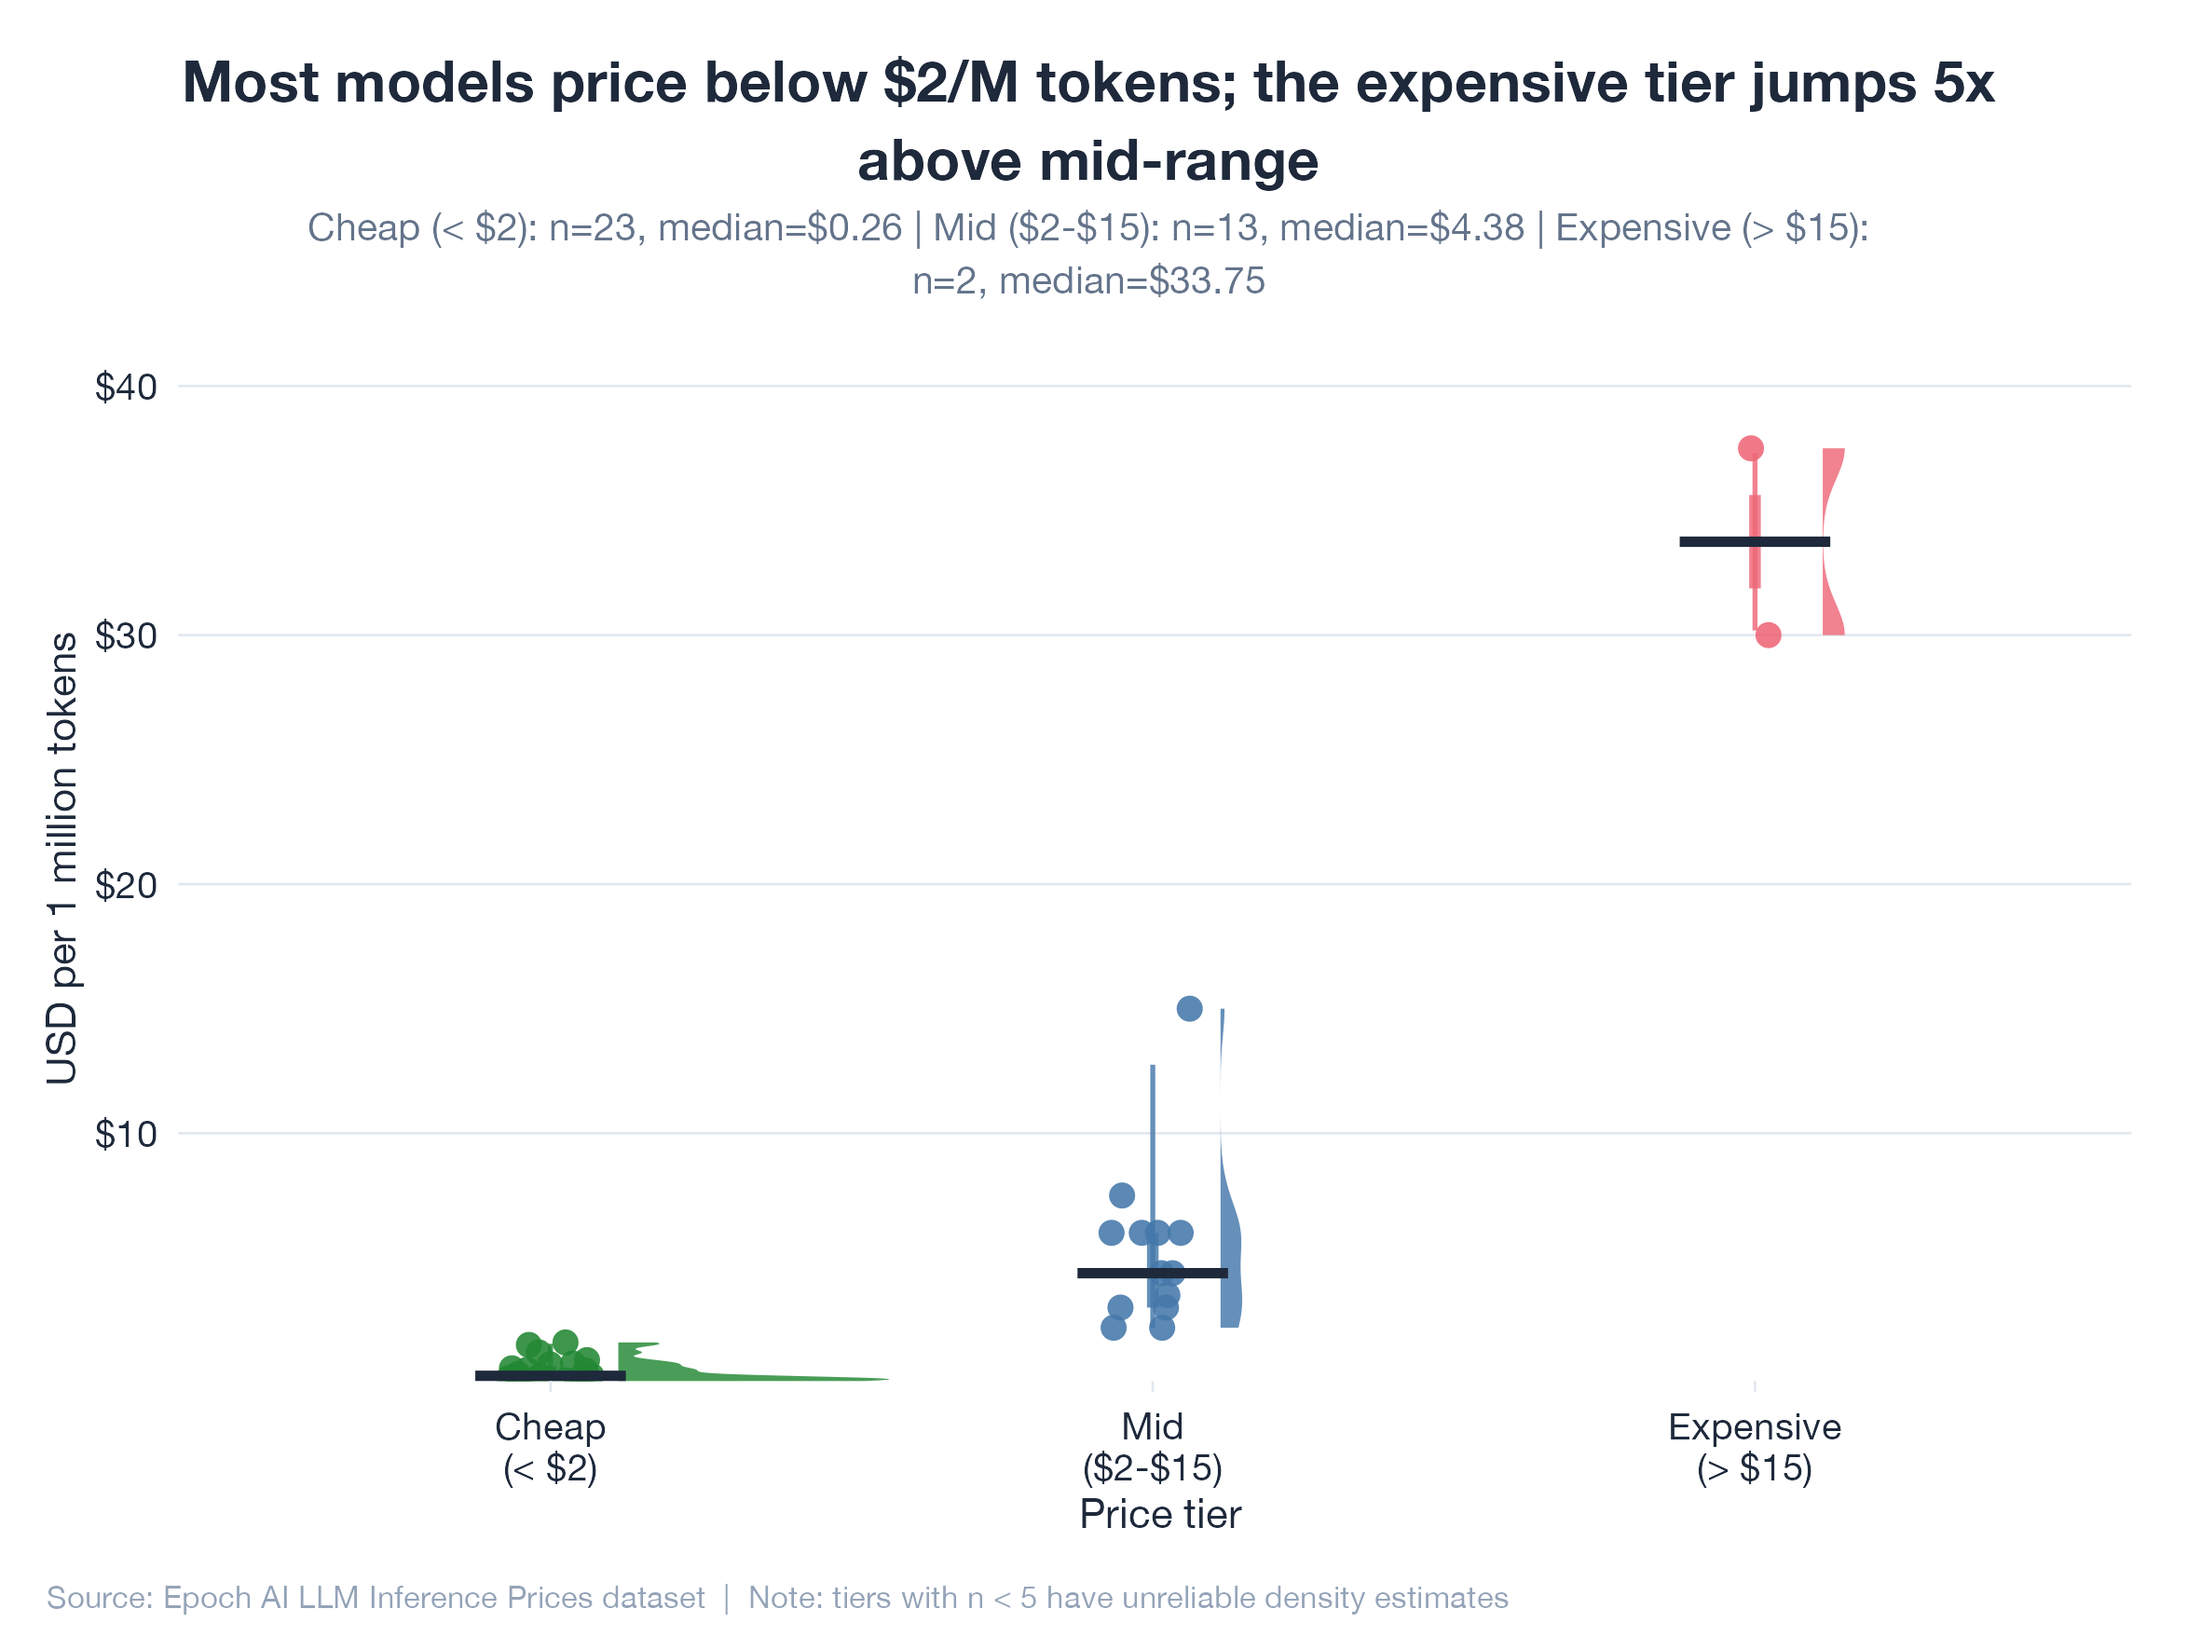
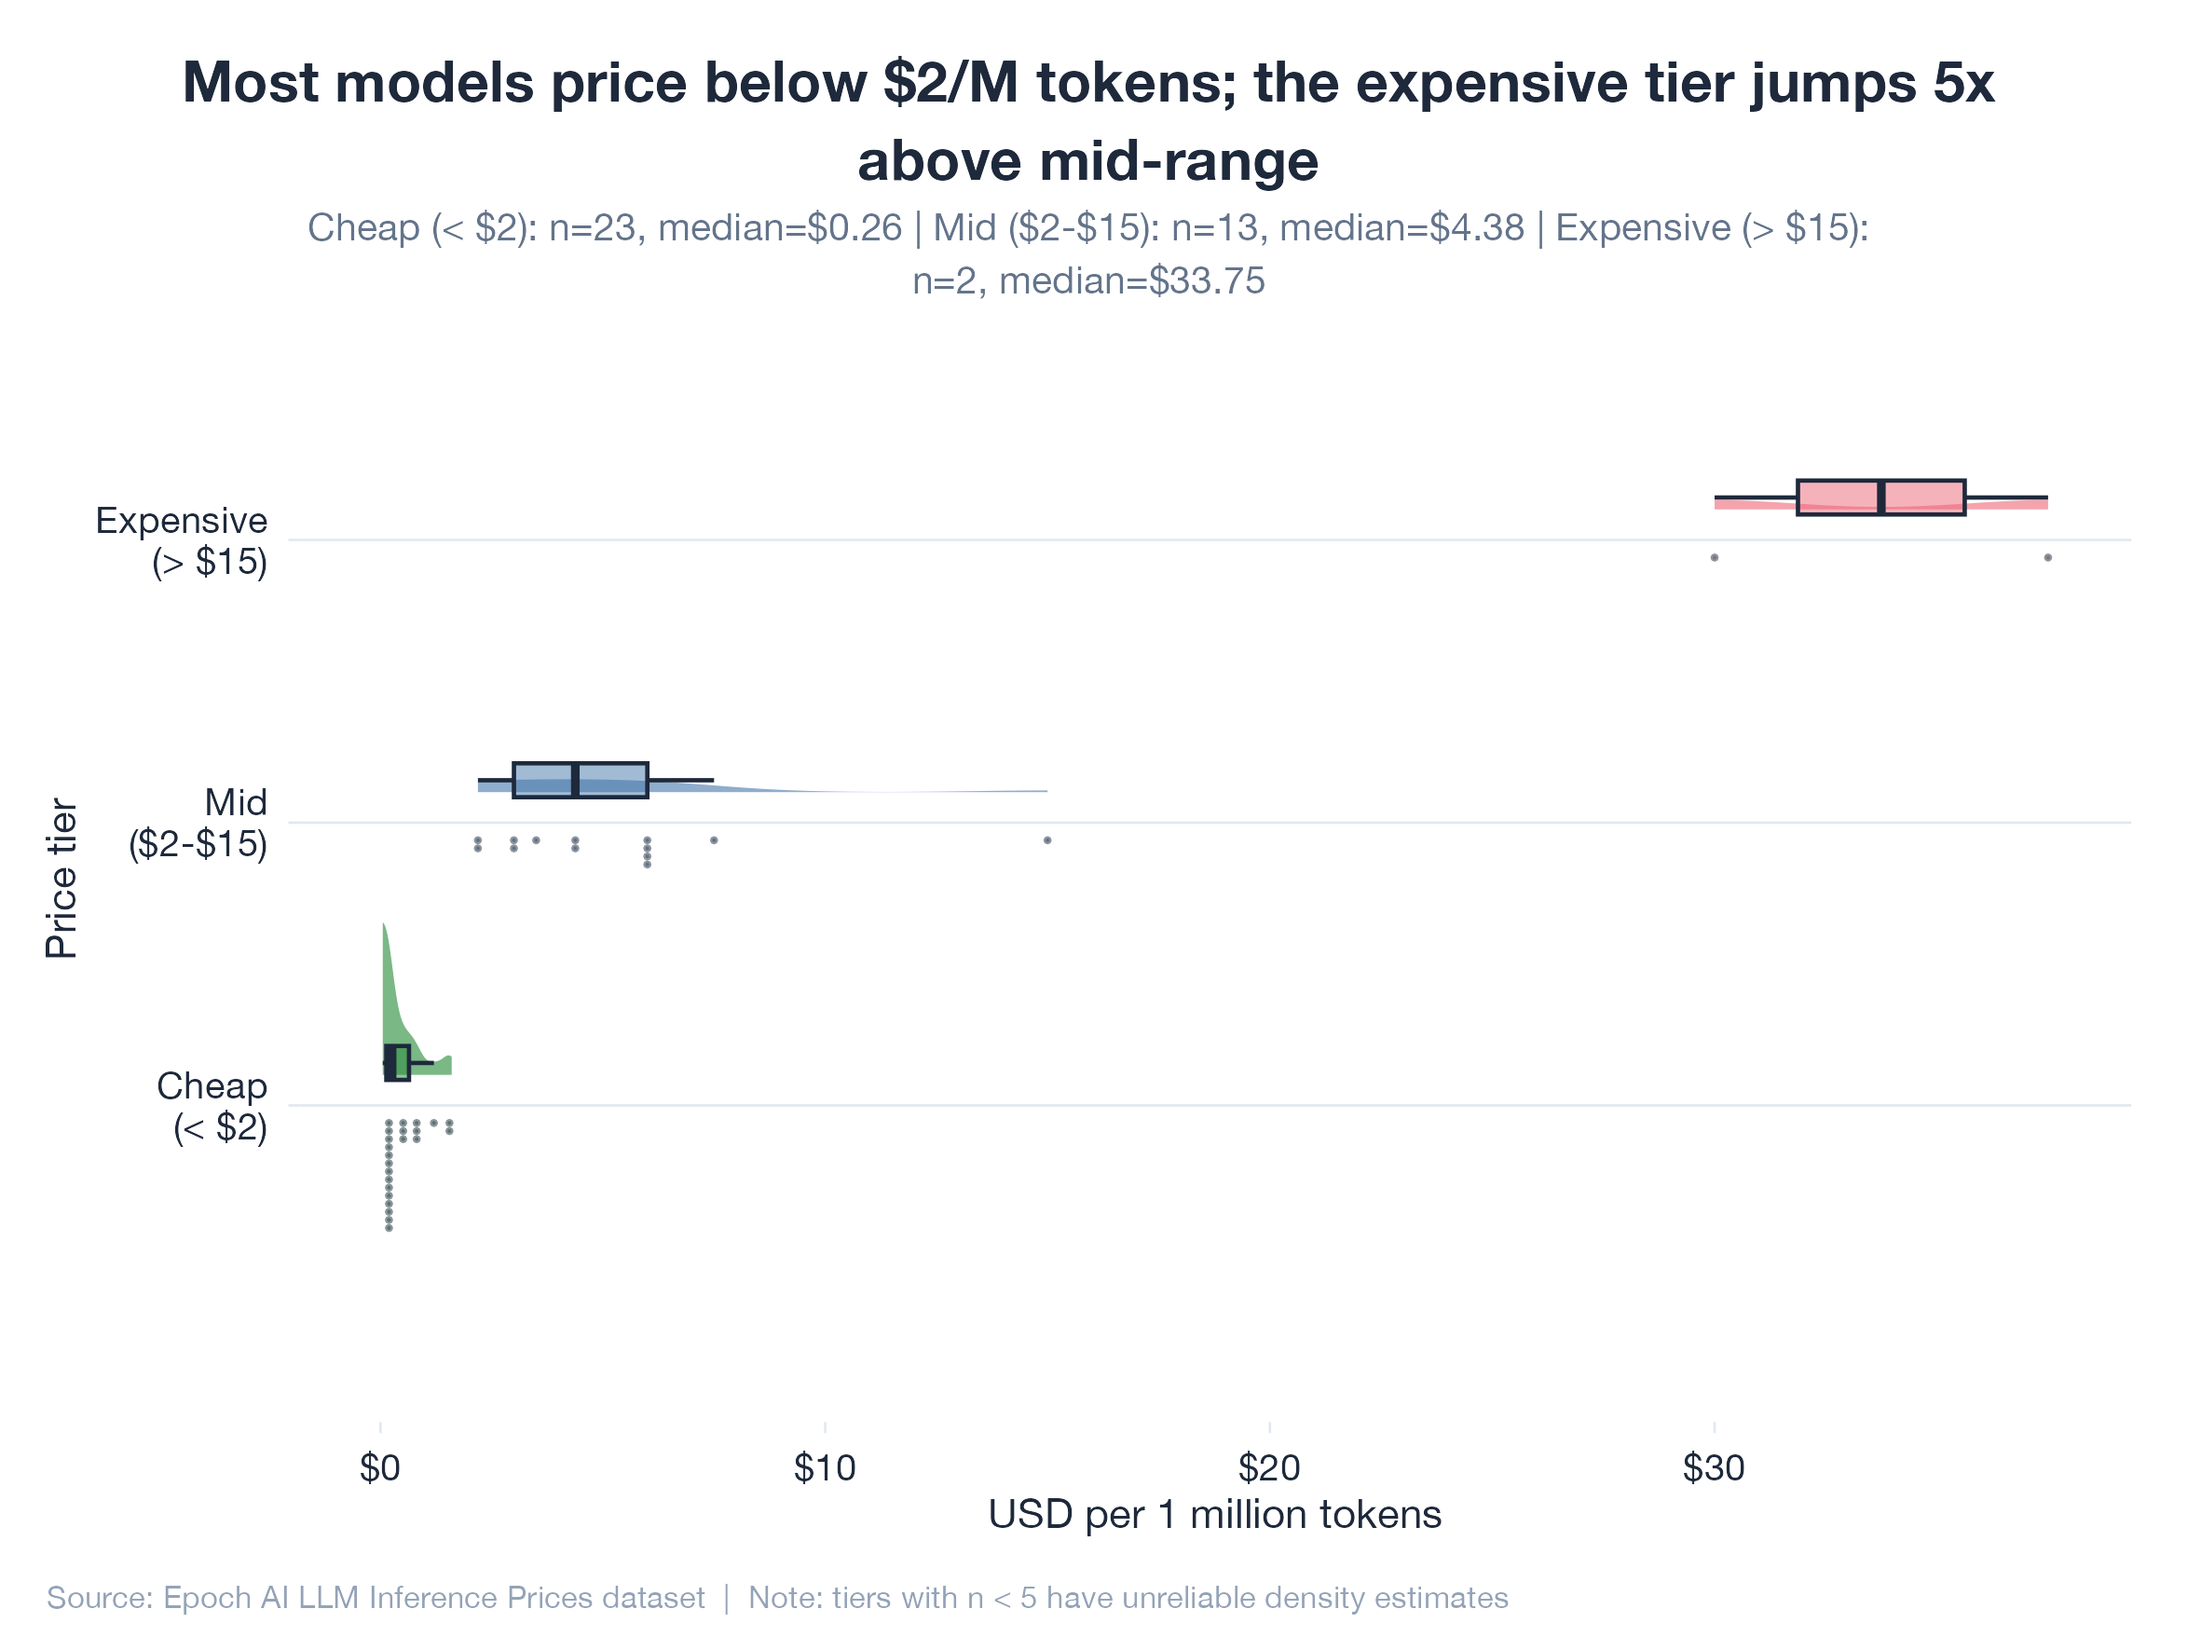
feat: overhaul raincloud plot instructions and regenerate DST-03 image
Raincloud best practices updated based on Allen et al. 2019 and
Correll 2023 research:

- plan.md Section 10.2: rewritten with two approaches (ggdist manual
  layering for max control, ggrain one-liner for quick use), detailed
  parameter recommendations, and defensive design guidelines
- plan.md Section 3.1: updated distribution+raw data entry with
  stat_dots preference over geom_jitter
- prompts/distribution.md: rewritten with 9 implementation rules
  covering bandwidth, boxplot sizing, layer spacing, orientation,
  n-adaptive behavior, and alpha conventions
- DST-03 image regenerated: horizontal orientation, deterministic
  stat_dots instead of jitter, proper geom_boxplot, trimmed density,
  adaptive bandwidth based on per-group sample size

diff --git a/plan.md b/plan.md
@@ -123,7 +123,7 @@ Match the user's analytical goal to the best geometry. Always think:
 |---|---|---|
 | Shape of distribution | `geom_histogram`, `geom_density` | Set meaningful `binwidth`; overlay `geom_rug` for small n |
 | Compare distributions | `geom_density` + `fill` + `alpha`, `ggridges::geom_density_ridges` | Ridgelines excel for >3 groups |
-| Distribution + raw data | `ggdist::stat_halfeye`, `ggrain::geom_rain` | Raincloud = box + violin + jitter |
+| Distribution + raw data | `ggdist::stat_halfeye` + `geom_boxplot` + `ggdist::stat_dots`, or `ggrain::geom_rain` | Raincloud = half-density + boxplot + dots; prefer `stat_dots` over `geom_jitter` for deterministic layout; use `coord_flip()` for horizontal orientation |
 | Counts of categories | `geom_bar(stat="count")` | Reorder with `forcats::fct_infreq` |
 
 ### 3.2 Relationship (two variables)
@@ -955,6 +955,72 @@ ggsave("scatter_regression.png", p, width = 180, height = 130, units = "mm", dpi
 
 ### 10.2 Raincloud Plot with Statistical Comparisons
 
+**Raincloud best practices** (Allen et al. 2019, Correll 2023):
+
+- **Three layers**: half-density slab (cloud), boxplot (lightning), raw dots (rain)
+- **Prefer `ggdist::stat_dots()` over `geom_jitter()`** — deterministic dot layout avoids
+  jitter-induced visual artefacts where identical data looks different across renders
+- **Bandwidth**: set `adjust = 0.5` to `0.75` to reveal multimodality; increase to `1.0-1.5`
+  for small n (< 20) to avoid spurious spikes
+- **Boxplot**: width ~1/4 to 1/6 of violin width; always `outlier.shape = NA` (raw data
+  already shows outliers); nudge away from density slab
+- **Orientation**: horizontal (`coord_flip()`) preferred — category labels read naturally,
+  density extends rightward, better for many groups
+- **Large n (> 200-300)**: drop raw points or use quantile dotplots
+  (`stat_dots(quantiles = 100)`) to avoid overplotting
+- **Trim density**: use `trim = TRUE` to prevent density mass beyond data bounds
+- **Always set `seed`** if using jitter for reproducibility
+
+**Approach A: ggdist manual layering (maximum control)**
+
+```r
+library(tidyverse)
+library(ggdist)
+library(palmerpenguins)
+
+p <- penguins %>%
+  filter(!is.na(body_mass_g), !is.na(species)) %>%
+  ggplot(aes(x = species, y = body_mass_g, fill = species)) +
+  # Cloud — half-density slab
+  stat_halfeye(
+    adjust = 0.5,
+    width = 0.6,
+    justification = -0.2,
+    .width = 0,
+    point_colour = NA,
+    trim = TRUE
+  ) +
+  # Lightning — boxplot
+  geom_boxplot(
+    width = 0.12,
+    outlier.shape = NA,
+    alpha = 0.5,
+    position = position_nudge(x = 0.15)
+  ) +
+  # Rain — deterministic dots
+  stat_dots(
+    side = "left",
+    justification = 1.12,
+    binwidth = 50,
+    dotsize = 0.8,
+    alpha = 0.5
+  ) +
+  scale_fill_manual(values = c("#E69F00", "#56B4E9", "#009E73")) +
+  labs(
+    title    = "Gentoo penguins are significantly heavier than other species",
+    subtitle = "Body mass distributions | n = 333 complete observations",
+    x = NULL, y = "Body mass (g)",
+    caption  = "Data: palmerpenguins | Colorblind-safe Okabe-Ito palette"
+  ) +
+  theme_minimal(base_size = 12) +
+  theme(legend.position = "none") +
+  coord_flip()
+
+ggsave("raincloud_penguins.png", p, width = 180, height = 130, units = "mm", dpi = 300)
+```
+
+**Approach B: ggrain one-liner (quick)**
+
 ```r
 library(tidyverse)
 library(ggrain)
@@ -964,16 +1030,24 @@ library(palmerpenguins)
 p <- penguins %>%
   filter(!is.na(body_mass_g), !is.na(species)) %>%
   ggplot(aes(x = species, y = body_mass_g, fill = species, color = species)) +
-  geom_rain(alpha = 0.4, rain.side = "l",
-            boxplot.args = list(color = "grey30", outlier.shape = NA),
-            violin.args  = list(color = NA, alpha = 0.3)) +
-  stat_compare_means(comparisons = list(c("Adelie","Chinstrap"),
-                                         c("Chinstrap","Gentoo"),
-                                         c("Adelie","Gentoo")),
-                     method = "wilcox.test", label = "p.signif",
-                     step.increase = 0.08) +
-  scale_fill_manual(values = c("#FF6B35", "#004E89", "#2A9D8F")) +
-  scale_color_manual(values = c("#FF6B35", "#004E89", "#2A9D8F")) +
+  geom_rain(
+    seed = 42,
+    rain.side = "l",
+    point.args = list(alpha = 0.4, size = 1.5),
+    boxplot.args = list(color = "grey30", outlier.shape = NA, width = 0.08),
+    boxplot.args.pos = list(width = 0.08, position = position_nudge(x = 0.12)),
+    violin.args = list(color = NA, alpha = 0.5, adjust = 0.5, trim = TRUE),
+    violin.args.pos = list(side = "r", width = 0.6, position = position_nudge(x = 0.17))
+  ) +
+  stat_compare_means(
+    comparisons = list(c("Adelie","Chinstrap"),
+                       c("Chinstrap","Gentoo"),
+                       c("Adelie","Gentoo")),
+    method = "wilcox.test", label = "p.signif",
+    step.increase = 0.08
+  ) +
+  scale_fill_manual(values = c("#E69F00", "#56B4E9", "#009E73")) +
+  scale_color_manual(values = c("#E69F00", "#56B4E9", "#009E73")) +
   labs(
     title    = "Gentoo penguins are significantly heavier than other species",
     subtitle = "Body mass distributions with pairwise Wilcoxon tests",

diff --git a/prompts/distribution.md b/prompts/distribution.md
@@ -1,26 +1,52 @@
 ---
 chart_family: distribution
 difficulty: intermediate
-packages: [ggrain, ggpubr, palmerpenguins]
+packages: [ggdist, ggplot2, palmerpenguins]
 dataset: palmerpenguins::penguins
 sections: [3, 4, 10]
 ---
 
 # Prompt
 
-Raincloud plot of penguin body mass (g) by species with pairwise Wilcoxon significance
-tests. Show raw data points, violin density, and boxplot in one layer. Use the
-Okabe-Ito colorblind-safe palette. Remove the legend (species shown on x-axis).
+Raincloud plot of penguin body mass (g) by species. Show a half-density slab (cloud),
+boxplot (lightning), and deterministic dot strip (rain) using ggdist. Use horizontal
+orientation with `coord_flip()`. Apply the Okabe-Ito colorblind-safe palette. Remove the
+legend (species shown on axis).
+
+# Raincloud implementation rules
+
+1. **Three distinct layers** — half-density slab, boxplot, raw dots. Never combine into
+   fewer layers (a violin alone or boxplot alone is not a raincloud).
+2. **Prefer `ggdist::stat_dots()` over `geom_jitter()`** — deterministic dot stacking
+   avoids jitter artefacts where identical data looks different across renders. If jitter
+   is required, always set `seed` for reproducibility.
+3. **Density bandwidth** — set `adjust = 0.5` for medium n (20-200) to reveal bimodality.
+   Increase to `1.0-1.5` for small n (< 20). Always use `trim = TRUE` to prevent density
+   mass beyond data bounds.
+4. **Boxplot sizing** — width = 0.10 to 0.15 (roughly 1/4 to 1/6 of violin width).
+   Always set `outlier.shape = NA` since raw data already shows outliers.
+5. **Layer spacing** — nudge the boxplot ~0.15 from center; position density slab with
+   `justification = -0.2`; position dots with `justification = 1.1` on the opposite side.
+6. **Orientation** — horizontal (`coord_flip()` or swapped aesthetics) is preferred:
+   category labels read naturally, density extends rightward, better for many groups.
+7. **Large n handling** — when n > 200-300 per group, replace raw dots with
+   `stat_dots(quantiles = 100)` (quantile dotplot) or drop the rain layer entirely.
+8. **Small n handling** — when n < 15, increase density bandwidth (`adjust = 1.0-1.5`)
+   and consider whether density estimation is warranted at all; a dot strip alone may
+   be more honest.
+9. **Alpha by component** — density: 0.5-0.7, boxplot: 0.5, dots: 0.4-0.6 (scale
+   inversely with n).
 
 # Expected outputs
 
 - Fully self-contained R script
-- `geom_rain()` with `rain.side = "l"`, violin, boxplot, and point layers
-- `stat_compare_means()` with `method = "wilcox.test"` and `label = "p.signif"`
-- Okabe-Ito or equivalent colorblind-safe fill/color palette
-- `scale_fill_manual()` + `scale_color_manual()` with matched values
-- Title: e.g. "Gentoo penguins are significantly heavier than other species"
-- Axis labels: `y = "Body mass (g)"`, `x = NULL` (species on x-axis is sufficient)
+- `ggdist::stat_halfeye()` for half-density slab with `adjust`, `trim = TRUE`, `.width = 0`
+- `geom_boxplot()` with `outlier.shape = NA`, nudged position, narrow width
+- `ggdist::stat_dots()` for deterministic dot layout (not `geom_jitter`)
+- `coord_flip()` for horizontal orientation
+- Okabe-Ito or equivalent colorblind-safe fill palette
+- Title: insight-driven (e.g. "Gentoo penguins are significantly heavier than other species")
+- Axis labels: `y = "Body mass (g)"`, `x = NULL`
 - Legend removed (`theme(legend.position = "none")`)
 - `ggsave()` with explicit dimensions and DPI
 
